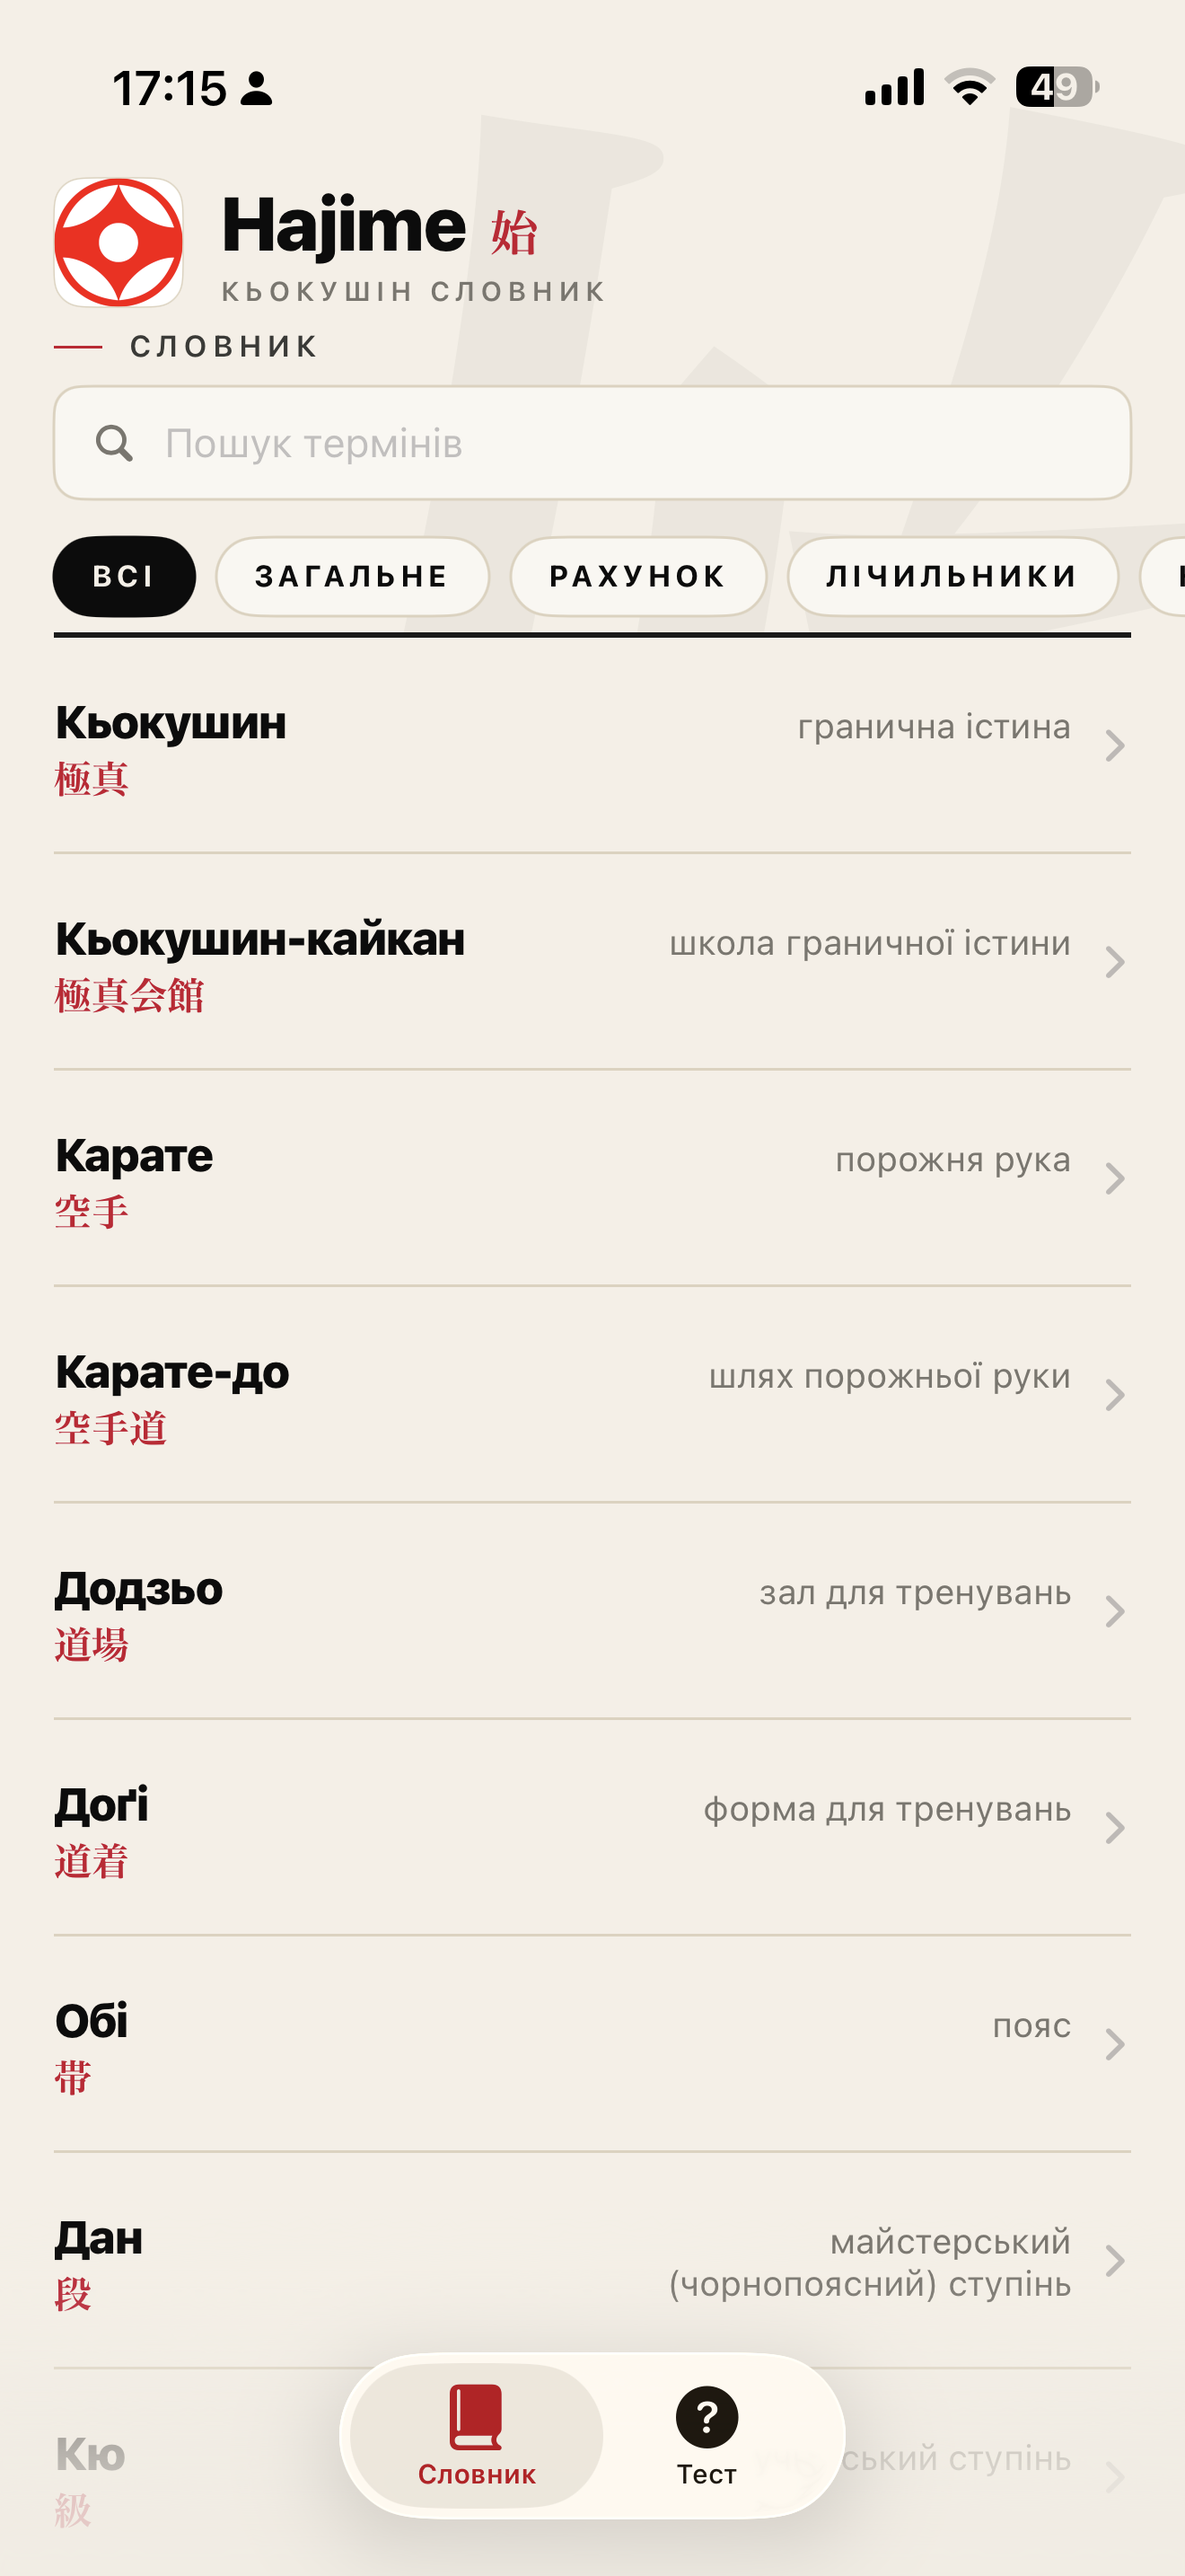
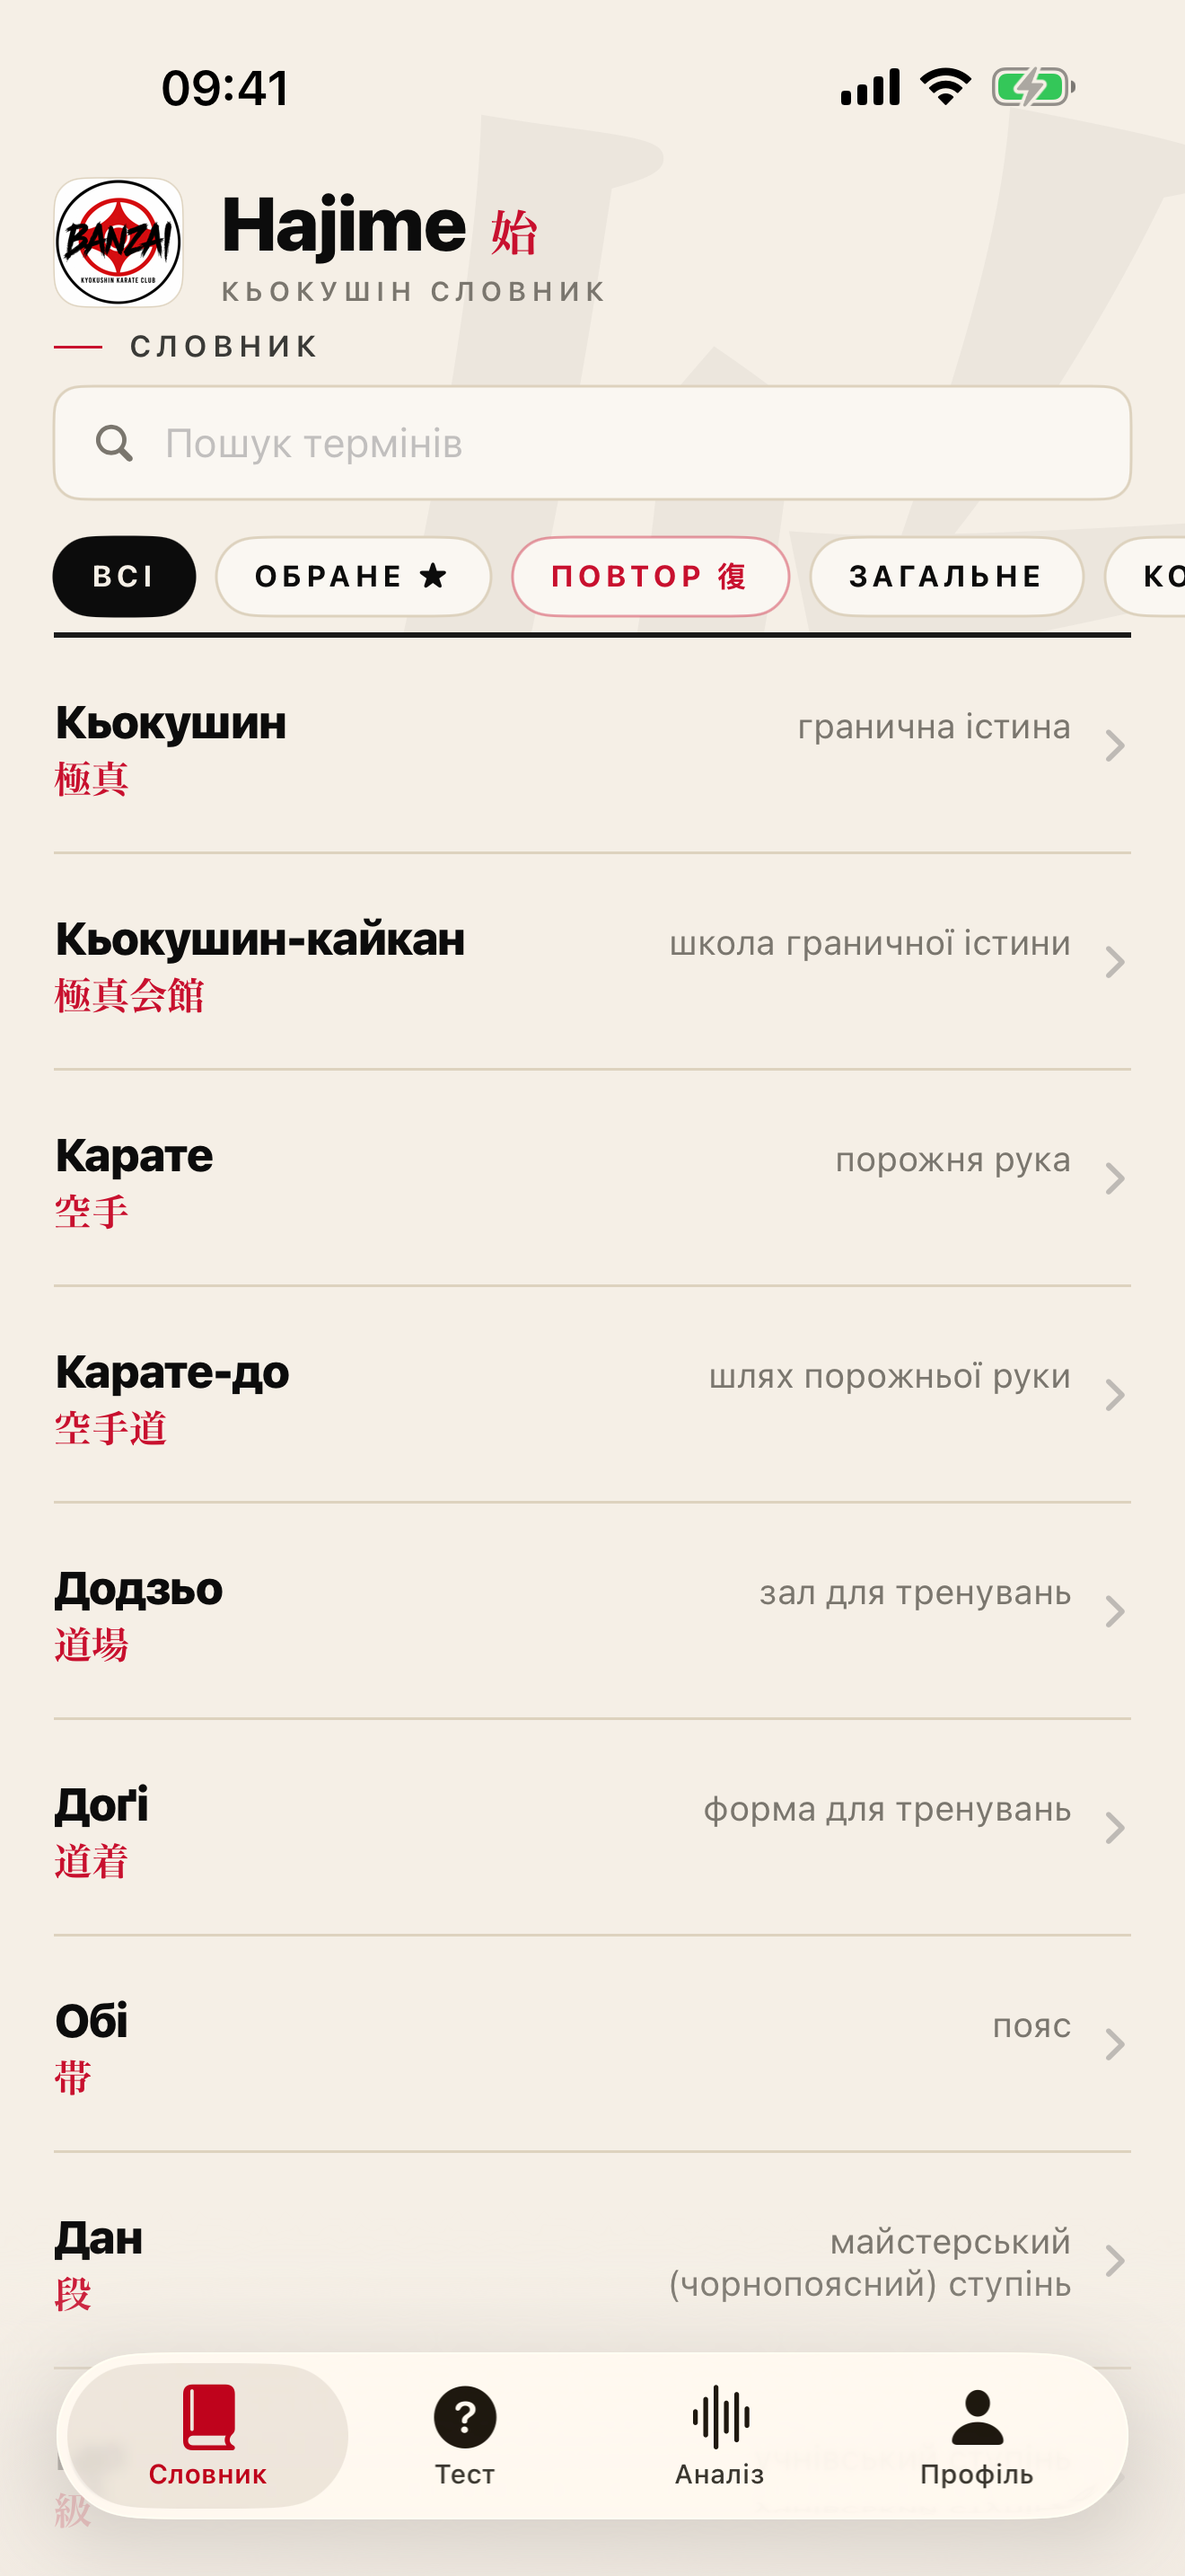
Replace screenshots; add English set and the training recorder
The screenshots were taken by hand in May, were Ukrainian-only, and
predated the training recorder — so the English page advertised the app
with Ukrainian UI, and the release's headline feature appeared nowhere.

Regenerated from the app with scripts/dev/screenshots.sh, which drives
a UI test per language with Apple's 9:41 status bar. The English page
now serves images/en/, and both pages gain the training-breakdown shot.
Structured-data screenshot lists and alt text updated to match (the
detail shot shows karate-do, not kiba-dachi).

They are also much smaller: term-detail drops from 5.6 MB to 298 KB.

diff --git a/index.en.html b/index.en.html
@@ -40,10 +40,11 @@
     "installUrl": "https://apps.apple.com/us/app/hajime-kyokushin/id6767507226",
     "image": "https://hajimekyokushin.com/images/icon.png",
     "screenshot": [
-      "https://hajimekyokushin.com/images/dictionary.png",
-      "https://hajimekyokushin.com/images/term-detail.png",
-      "https://hajimekyokushin.com/images/quiz-setup.png",
-      "https://hajimekyokushin.com/images/quiz-question.png"
+      "https://hajimekyokushin.com/images/en/dictionary.png",
+      "https://hajimekyokushin.com/images/en/term-detail.png",
+      "https://hajimekyokushin.com/images/en/quiz-setup.png",
+      "https://hajimekyokushin.com/images/en/quiz-question.png",
+      "https://hajimekyokushin.com/images/en/analysis.png"
     ],
     "offers": {
       "@type": "Offer",
@@ -104,7 +105,7 @@
         </div>
       </div>
       <div class="hero-image">
-        <img src="images/dictionary.png" alt="Hajime term list with category filters">
+        <img src="images/en/dictionary.png" alt="Hajime term list with category filters">
       </div>
     </div>
   </section>
@@ -119,11 +120,11 @@
         muted
         playsinline
         preload="metadata"
-        poster="images/dictionary.png"
+        poster="images/en/dictionary.png"
         aria-label="Hajime app demo — dictionary, term detail page and quiz mode">
         <source src="images/hajimeapp.mp4" type="video/mp4">
         <source src="images/hajimeapp.mov" type="video/quicktime">
-        <img src="images/dictionary.png" alt="Hajime term list with category filters">
+        <img src="images/en/dictionary.png" alt="Hajime term list with category filters">
       </video>
     </div>
   </section>
@@ -177,10 +178,11 @@
       </div>
       <div class="section-content">
         <div class="screenshots">
-          <img src="images/dictionary.png" alt="Term dictionary with category filters">
-          <img src="images/term-detail.png" alt="kiba-dachi term detail page">
-          <img src="images/quiz-setup.png" alt="Quiz setup with type, category and direction">
-          <img src="images/quiz-question.png" alt="Combination quiz question with answer options">
+          <img src="images/en/dictionary.png" alt="Term dictionary with category filters">
+          <img src="images/en/term-detail.png" alt="karate-do term detail page">
+          <img src="images/en/quiz-setup.png" alt="Quiz setup with type, category and direction">
+          <img src="images/en/quiz-question.png" alt="Combination quiz question with answer options">
+          <img src="images/en/analysis.png" alt="Training breakdown: session timeline split into warm-up, kihon, kata and kicks">
         </div>
       </div>
     </div>

diff --git a/index.html b/index.html
@@ -50,7 +50,8 @@
       "https://hajimekyokushin.com/images/dictionary.png",
       "https://hajimekyokushin.com/images/term-detail.png",
       "https://hajimekyokushin.com/images/quiz-setup.png",
-      "https://hajimekyokushin.com/images/quiz-question.png"
+      "https://hajimekyokushin.com/images/quiz-question.png",
+      "https://hajimekyokushin.com/images/analysis.png"
     ],
     "offers": {
       "@type": "Offer",
@@ -185,9 +186,10 @@
       <div class="section-content">
         <div class="screenshots">
           <img src="images/dictionary.png" alt="Словник термінів з фільтрами категорій">
-          <img src="images/term-detail.png" alt="Детальна сторінка терміна kiba-dachi">
+          <img src="images/term-detail.png" alt="Детальна сторінка терміна karate-do">
           <img src="images/quiz-setup.png" alt="Налаштування тесту з типом, категорією та напрямком">
           <img src="images/quiz-question.png" alt="Питання комбінованого тесту з варіантами відповідей">
+          <img src="images/analysis.png" alt="Розбір тренування: хід заняття за блоками — розминка, кіхон, ката, удари ногами">
         </div>
       </div>
     </div>
